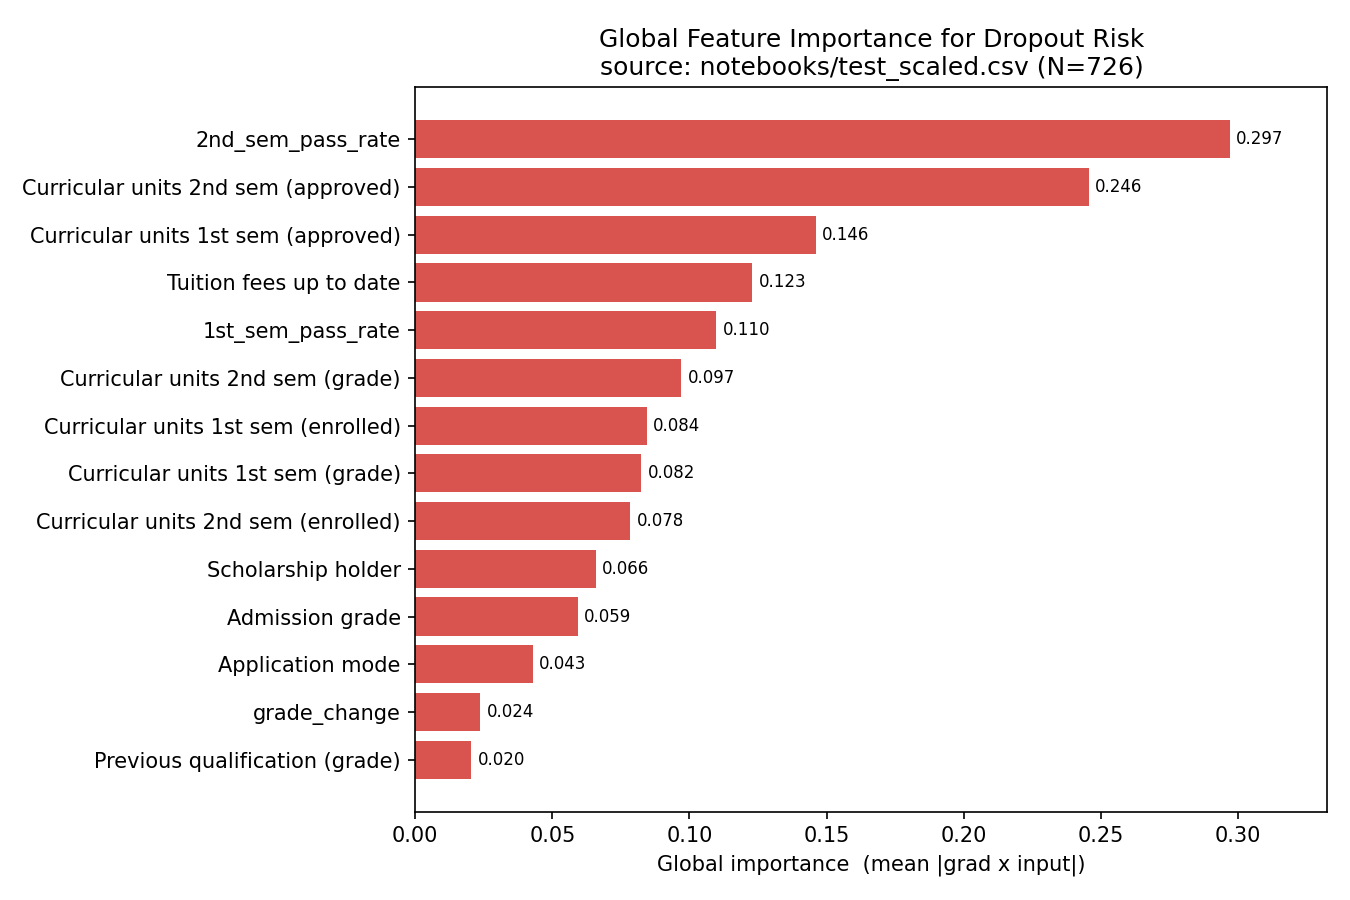
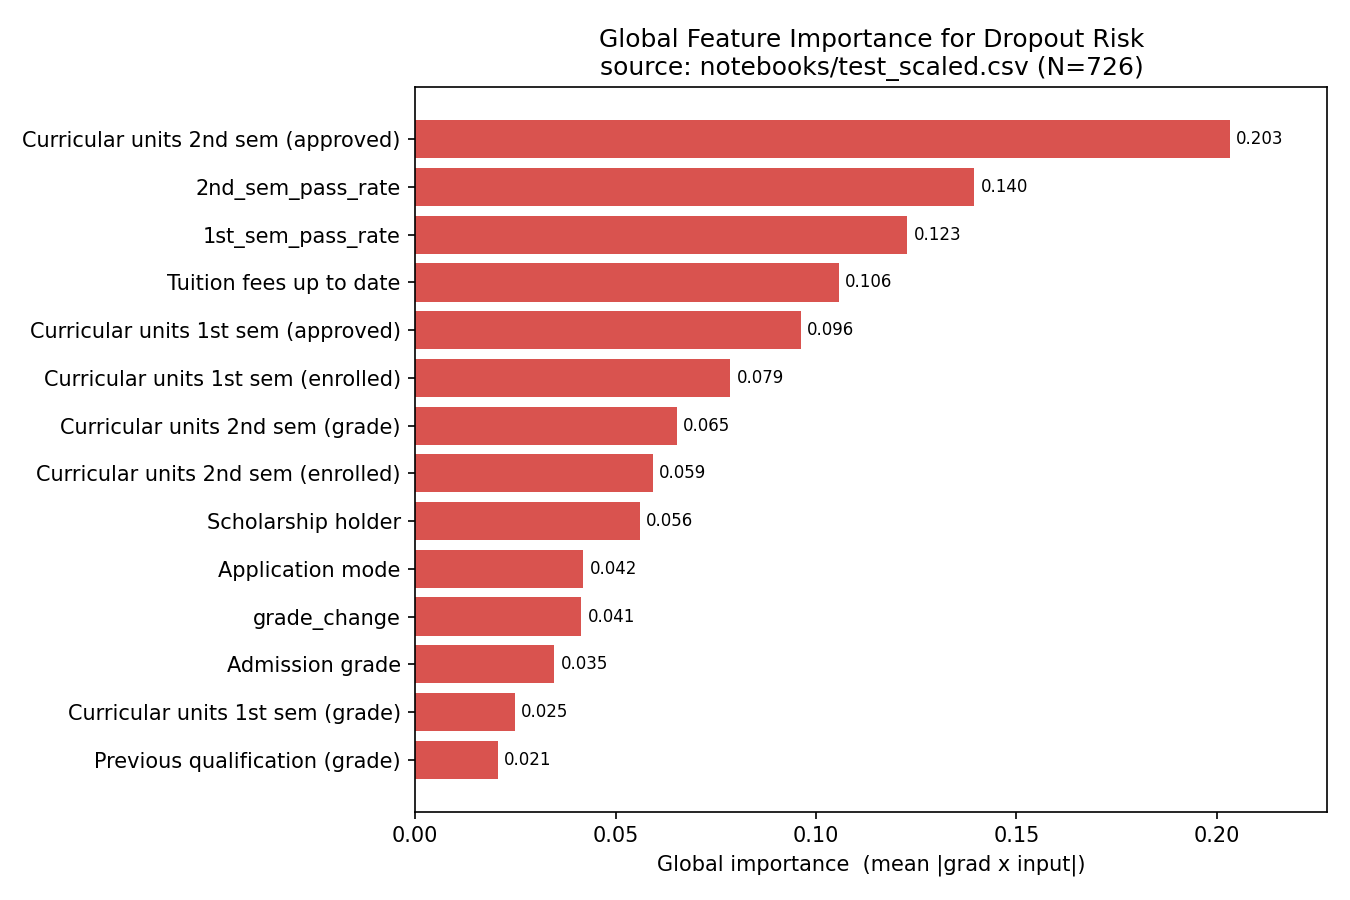
docs: update bilingual README docs and regenerate importance plot

diff --git a/README_en.md b/README_en.md
@@ -1,0 +1,328 @@
+# Student Dropout and Academic Success Prediction System
+
+[👉 中文版 Readme.md](./README.md)
+
+**A Secure Deep Learning System for Predicting Students' Dropout and Academic Success**
+
+This project predicts students' academic outcomes using enrollment, academic, and background data.  
+The modeling stage focuses on the most critical **binary classification task (Dropout vs Graduate, with Enrolled samples removed)**, and also covers explainability, security, fairness, and an actionable inference interface.
+
+> **Live Demo**: <https://huggingface.co/spaces/hsuifang/student-dropout-prediction>
+>
+> Dataset: [UCI – Predict students' dropout and academic success](https://archive.ics.uci.edu/dataset/697/predict+students+dropout+and+academic+success)
+
+---
+
+## 📋 Data Card (Completed by Member A, 113AB8049)
+
+### Data Card
+
+* **Dataset name**:
+  Predict Students' Dropout and Academic Success
+
+* **Dataset source**:
+  UCI Machine Learning Repository (Dataset ID 697)
+
+* **Original dataset size**:
+  * **Instances**: 4,424 students
+  * **Features**: 36 raw input variables
+  * **Target classes**: 3 classes (Dropout, Enrolled, Graduate)
+
+* **Processed dataset size**:
+  * **Features**: 14 final model features (11 selected original features and 3 engineered features)
+  * **Target classes**: 2 classes (binary classification: Dropout / Graduate)
+  * *Note: For detailed implementation of data cleaning, feature selection, and feature engineering, see [01_data_preprocessing.md](./reports/01_data_preprocessing.md).*
+
+---
+
+* **Feature domains**:
+  The original 36 features (reduced to 14 after optimization) mainly cover:
+  * Student demographics (e.g., gender, age at enrollment, nationality)
+  * Academic background (e.g., admission grade, previous qualification grade)
+  * Family and socioeconomic background
+  * Academic performance (first- and second-semester course information)
+  * Macroeconomic indicators (GDP, inflation rate, unemployment rate)
+
+* **Target label mapping**:
+  * **Original labels (3-class)**: `Dropout`, `Enrolled`, `Graduate`
+  * **Processed labels (binary)**: `1` represents Dropout, `0` represents Graduate (`Enrolled` samples removed)
+
+---
+
+### Data Preprocessing & Feature Engineering Overview
+
+To improve model accuracy while considering fairness for sensitive attributes, we applied the following optimizations to the raw data **(full technical details and code are provided in 01_data_preprocessing.md)**:
+
+* **Data filtering**:
+  Removed `Enrolled` samples, which are not directly aligned with the main prediction goal, and focused on confirmed Graduation and Dropout outcomes.
+* **Target encoding**:
+  Converted the original text-based `Target` column from a 3-class label into a binary label (`Dropout` mapped to `1`, `Graduate` mapped to `0`).
+* **Feature engineering**:
+  Based on domain knowledge and correlation screening, we selected 11 key features from the original 36 and engineered 3 high-impact derived features that capture students' learning dynamics (*first-semester pass rate*, *second-semester pass rate*, and *grade change across semesters*), resulting in 14 core model features.
+* **Feature scaling**:
+  Applied mean-variance normalization (Z-score standardization) to numerical features to help neural networks and linear models converge. We also **strictly separated training and test statistics to prevent data leakage**.
+* **Validation setup**:
+  Used a strict 80% training / 20% independent test split, and adopted **5-fold stratified cross-validation** during training to preserve the real-world dropout ratio (39.15%) while ensuring generalization.
+
+---
+
+* **Sensitive attributes**:
+  * `Tuition fees up to date`
+
+* **Privacy risks**:
+  `Tuition fees up to date` reflects a student's financial condition and is sensitive personal information. Although the dataset is de-identified (no names or student IDs), combining this variable with other demographic or academic data may still increase the risk of inferring an individual's economic status. Appropriate access control and protection measures should therefore be applied during data use and sharing.
+
+* **Bias & fairness risks**:
+  `Tuition fees up to date` may indirectly reflect socioeconomic status. If the model relies too heavily on this feature, economically disadvantaged students may be systematically predicted as having a higher dropout risk. To mitigate this issue, we introduced a **fairness repair algorithm** in this project. The model's predictions should be used only as a reference for providing additional support and interventions, not as a tool to limit educational opportunities.
+
+* **Intended use**:
+  To identify students at risk of dropping out as early as possible, so schools can provide academic guidance, financial aid, and other targeted support.
+
+* **Prohibited use**:
+  This model must not be used as the sole basis for:
+  * Student dismissal or expulsion decisions
+  * Admission decisions
+  * Scholarship allocation or disciplinary action
+  * Any automated decision affecting student rights without human review
+
+* **Dataset limitations**:
+  1. The data comes from a single higher education institution, so the results may not generalize to other schools or countries.
+  2. The data reflects a specific educational system and socioeconomic environment, and may not represent other student populations.
+  3. Important latent factors affecting dropout, such as mental health, learning motivation, and family support, are not included in the dataset.
+  4. The macroeconomic variables are broad indicators and cannot precisely reflect each student's personal financial status.
+  5. The inclusion of second-semester academic performance features may reduce the model's timeliness in a truly early-warning setting.
+
+---
+
+## 📋 Model Card (Completed by Member B, 113AB8046)
+
+- **Model name**: Fair-Predict Student Retention Model
+- **Model version**: `1.0.0` *(synchronized with `MODEL_VERSION` in `src/schema.py`)*
+- **Model architecture**: Deep feedforward neural network (Multi-Layer Perceptron, MLP)
+  * **Layer Stack**: `Input (14 features) → Dense(64) + BatchNorm + ReLU + Dropout(0.4) → Dense(32) + BatchNorm + ReLU + Dropout(0.3) → Dense(16) + ReLU → Linear(1)`
+  * **Loss Function**: `Focal Loss` (for label imbalance) + `MMD MinDiff Loss` (fairness constraint)
+  * **Optimization**: Automated Bayesian hyperparameter tuning with `Optuna` + `5-Fold` cross-validation
+- **Training data**:
+  Uses de-identified student academic and socioeconomic feature data (`train_scaled.csv`). It contains **14 core features**: 11 original features selected through SHAP analysis, plus 3 manually engineered features from our team (first-semester pass rate, second-semester pass rate, and grade change rate). No SMOTE oversampling was applied to avoid distorting the data distribution.
+
+- **Evaluation results**:
+  All models in this project were trained under a strict **5-fold cross-validation** setup, and final predictions on the independent gold test set were integrated via soft voting. The final quantitative results are shown below:
+
+| Model Stage | Accuracy | Macro F1 | Dropout Recall | ROC-AUC (Integrated Test Set) |
+| :--- | :---: | :---: | :---: | :---: |
+| **Baseline** (5-Fold Logistic Regression) | 0.94 | 0.93 | 0.90 | 0.9685 |
+| **MLP** (5-Fold) | 0.94 | 0.92 | 0.90 | **0.9730** |
+| **MLP + MinDiff** (Optuna-tuned) | 0.92 | 0.91 | 0.90 | 0.9485 |
+
+> 💡 **5-Fold internal validation stability**
+> * **MLP + MinDiff mean validation AUC**: $0.9268 \pm 0.0146$
+> * **MLP + MinDiff mean validation Gap**: $22.67\% \pm 18.32\%$
+
+- **Fairness results**:
+  This project uses `Tuition fees up to date` as the **protected sensitive attribute** to assess whether the model introduces serious systematic discrimination against economically disadvantaged students.
+
+  * **Baseline (FPR Gap)**: **62.54%** 🚨 *(Sensitive group FPR: 66.67% / Reference group FPR: 4.13%)*
+  * **Pure MLP (FPR Gap)**: **78.52%** 🚨 *(Sensitive group FPR: 83.33% / Reference group FPR: 4.82%)*
+  * **MLP + MinDiff (FPR Gap)**: 👑 **8.18%** ✨ *(Sensitive group FPR: 16.67% / Reference group FPR: 8.49%)*
+
+  **Bias mitigation insight:**  
+  By maximizing the custom composite metric $\text{Score} = \text{Mean AUC} - \text{Mean FPR Gap}$ with Optuna, the final model successfully **eliminated 86.7% of the historical financial-status bias**, while sacrificing only a very small amount (2.39%) of peak predictive AUC.
+
+- **Intended use**:
+  Designed for automated academic review at the end of the first year in colleges and universities. It aims to identify students with high dropout risk so that academic offices, counseling centers, and advisors can use it as an early intervention signal for **care interviews, psychological counseling, and campus resource allocation**.
+
+- **Out-of-scope use**:
+  * ❌ The model's predicted labels or probabilities must **never** be used directly for scholarship evaluation, financial aid allocation, or penalties in outstanding student selection.
+  * ❌ No campus administrative unit may use this automated model to directly trigger forced withdrawal, grade retention, or punitive administrative action without human review.
+
+- **Model limitations**:
+  * **Time lag**: Core features rely heavily on end-of-semester grades and credits, so the model may react too late for sudden dropout events caused by financial emergencies or loss of interest mid-semester.
+  * **Binary simplification bias**: The tuition payment status is currently simplified into a binary representation (below median vs above median), which cannot precisely capture dynamic and continuous changes in family finances.
+
+- **Ethical risks**:
+  If a model without MinDiff correction (such as the pure MLP) were deployed directly, it would create severe **financial shortcut learning** bias. The system could rely solely on whether a student comes from a financially disadvantaged background or has overdue tuition, which is unrelated to academic ability, and blindly misclassify the student as certain to drop out with a probability as high as 66.67%. This would create structural discrimination in the allocation of campus administrative resources and inflict secondary stigmatizing harm on specific socioeconomic groups.
+
+- **Security risks**: See the Security section below.
+- **Human oversight**:
+  **Responsible AI core principle (Human-in-the-loop):** The model's predictions and risk probabilities should be treated only as supporting signals for frontline academic counselors. Final intervention decisions, practical response measures, and administrative judgments must remain fully subject to human review and professional advisor assessment.
+
+- **Deployment status**:
+  * 🟢 **Status**: `Deployed`
+  * **Online demo**: Hugging Face Spaces — <https://huggingface.co/spaces/hsuifang/student-dropout-prediction>
+  * The production **5-fold MinDiff ensemble** (`model.pt` + `preprocessor.joblib`) is included in the repo and deployed via Docker (CPU torch, ~1.76GB); no changes are required in the UI or inference layer.
+  * 5-fold cross-validation and debiasing evaluation passed (integrated FPR Gap < 10%).
+
+---
+
+## 🔒 Security (Member C, 113AB8050)
+
+Key controls: **Input Validation**, sensitive attribute **de-identification**, shared **preprocessor** across training and inference (to prevent training-serving skew), **Human Review** warning, and de-identified **inference logs**.
+
+> Full risk register (8 risks × description × control × implementation × status) and TODOs are available in [`reports/05_security.md`](reports/05_security.md).
+
+### System Warning (Shown in the UI)
+
+```text
+This prediction is intended for early intervention support only.
+It must not be used as the sole basis for academic,
+disciplinary, or enrollment decisions.
+```
+
+## Quick Start · How to Use
+
+### Step 1 — Setup
+```bash
+python3 -m venv .venv && source .venv/bin/activate   # Virtual environment recommended
+pip install -r requirements.txt
+```
+
+### Step 2 — Prepare a Model — **Choose One**
+Both options produce `models/model.pt` and `models/preprocessor.joblib`, both follow the inference contract, and both can be loaded directly by `load_checkpoint` with **no UI changes required**.
+
+```bash
+# A) Placeholder model: no real data needed, fastest way to bring up the UI / demo flow
+python -m scripts.train_placeholder
+
+# B) Production model: requires the real data.csv (with Target column; not included in the repo)
+python -m scripts.export_model --data notebooks/data.csv
+```
+
+| | A. `train_placeholder` | B. `export_model` |
+| --- | --- | --- |
+| Data | Synthetic / UCI (no `data.csv` required) | Real `data.csv` |
+| Model | Placeholder "fake model", predictions are not meaningful | Production model |
+| Method | Standard BCE | Focal + MinDiff, **5-fold soft-voting ensemble** (= the one reported in the project report, consistent with Member B's notebook) |
+| Use case | Run the UI without data | Formal demo / deployment |
+
+> 💡 The `export_model` pipeline combines the 5 member models through soft voting and serializes them into a single `models/model.pt`;  
+> the inference layer (`src/inference`) uses `EnsembleMLP` to average probabilities automatically, so neither the UI nor the inference code needs to change.
+
+### Step 3 — Run the App
+```bash
+streamlit run app/streamlit_app.py     # Opens http://localhost:8501
+```
+Operation flow: enter student information in the left panel → click **Run Assessment** → the right panel immediately shows  
+**risk level → suggested action → main risk factors → class probabilities**, along with usage limitations and a human-review reminder.
+
+<p align="center">
+  <img src="results/main.png" alt="Dropout Risk Prediction interface" width="527">
+</p>
+
+### Step 4 — Optional: Generate Global Explanation Plot
+```bash
+python -m scripts.plot_global_importance       # → results/global_importance.png
+```
+
+> ⚠️ The `models/model.pt` generated by option A is a **placeholder** and is only for UI integration and demo purposes.  
+> For real performance, use option B (or replace it with the trained weights from Member B). No changes are needed in the UI or inference layer.
+
+---
+
+## Docker Deployment
+
+Deploy the interface to a server using the **production model (not the placeholder)**:
+
+```bash
+# 1) Generate the production model on a machine that has the real data.csv
+python -m scripts.export_model --data notebooks/data.csv
+#    → models/model.pt (5-fold ensemble) + models/preprocessor.joblib
+
+# 2) Build the image
+#    If models/ does not contain a real model, the image build falls back to a placeholder automatically
+docker build -t dropout-app .
+
+# 3) Run / deploy to the server
+docker run -d -p 8501:8501 --name dropout dropout-app
+#    → http://<server-address>:8501
+```
+
+- The image does **not** include raw or processed student data (`data.csv`, `*_scaled.csv` are excluded by `.dockerignore`).
+  Only the trained `model.pt` and `preprocessor.joblib` are packaged, so runtime behavior is equivalent to running the real model locally.
+- To persist inference logs to the host machine, mount `-v $(pwd)/results:/app/results`.
+- If the model changes, rerun step 1 → `docker build` → `docker run`.
+
+---
+
+## Inference Flow
+
+The interface (`app/`) does not perform machine learning directly. It only collects inputs, orchestrates the flow, and displays outputs. Prediction and explanation are delegated to `src/`:
+
+```text
+Form input (11 fields) → ① validate_input → ② predict → ③ explain_record → interpret into plain language → display + log
+                         (security)         (inference)   (explain)
+```
+
+| Module | Responsibility |
+| --- | --- |
+| `inference.py` | **How high is the risk?** — preprocessing (11 → 14) + model (`DropoutMLP` / `EnsembleMLP`) → probability / risk level |
+| `explain.py` | **Why?** — contribution of each feature to increasing or decreasing dropout risk (SHAP / gradient fallback) |
+| `interpret.py` / `security.py` | Convert numerical outputs into human-readable explanations / input validation + de-identified logs |
+
+> 💡 The interface depends only on the two functions `predict()` and `explain_record()`. Even after replacing a single model with a **5-fold ensemble**, `inference / explain / app` required no code changes.
+
+---
+
+## Project Structure
+
+```text
+student-dropout-prediction/
+├── README.md                # Includes Data Card / Model Card / Security
+├── requirements.txt
+├── src/                     # Shared modules
+│   ├── schema.py            # Single source of truth: feature order, labels, sensitive attributes, version
+│   ├── model.py             # MLP definition + checkpoint I/O format
+│   ├── preprocessing.py     # Scaler build/load (prevents training-serving skew)
+│   ├── inference.py         # Load model + prediction + risk level
+│   ├── explain.py           # SHAP / gradient fallback (Explainability)
+│   ├── interpret.py         # Convert model output into teacher-readable risk factors / action suggestions
+│   └── security.py          # Input Validation / de-identification / Inference Log
+├── scripts/
+│   ├── train_placeholder.py # Placeholder model (synthetic data)
+│   ├── export_model.py      # Production model (real data, 5-fold MinDiff ensemble)
+│   └── plot_global_importance.py # Global explanation plot -> results/global_importance.png
+├── app/
+│   └── streamlit_app.py     # Inference interface (main deliverable by Member C)
+├── models/                  # model.pt / preprocessor.joblib (generated artifacts)
+├── results/                 # Inference records, evaluation results
+├── notebooks/               # Exploratory analysis
+├── reports/                 # Detailed reports for each stage (preprocessing / evaluation / fairness / explainability / security)
+└── docs/                    # Assignment requirements and reference documents
+```
+
+---
+
+## Model Contract (For Member B to Replace the Production Model)
+
+As long as the following two conditions are met, `models/model.pt` can be replaced directly without changing the frontend:
+
+1. **Feature order and labels** must come from `src/schema.py` (`FEATURE_ORDER`, `LABELS`).
+2. **Checkpoint format** must use the save functions in `src/model.py`, and the corresponding `models/preprocessor.joblib` must be exported together:
+   - Single model via `save_checkpoint(...)`:
+     `state_dict / input_dim / dropout_1 / dropout_2 / num_classes / model_version / label_names`
+   - 5-fold ensemble via `save_ensemble_checkpoint(...)`:
+     `ensemble (member state_dicts) / num_members / input_dim / dropout_1 / dropout_2 / num_classes / model_version / label_names`
+   - `load_checkpoint(...)` automatically detects both formats, so the frontend and inference layer require no changes.
+
+---
+
+## Team Responsibilities
+
+| Module | Owner |
+| --- | --- |
+| Data preprocessing, Data Card, fairness data | 113AB8049 |
+| Baseline, MLP, MinDiff, evaluation, Model Card | 113AB8046 |
+| Explainability, Security, Inference interface, Deployment | 113AB8050 |
+
+---
+
+## Detailed Reports
+
+Below is the summary of the key sections (Data Card / Model Card / Security). For full methods and results, see [`reports/`](reports/README.md):
+
+| Report | Content |
+| --- | --- |
+| [01 Preprocessing](reports/01_data_preprocessing.md) | Data analysis, encoding, splitting, Data Leakage |
+| [02 Model & Evaluation](reports/02_model_evaluation.md) | Baseline / MLP / MinDiff, metric comparison |
+| [03 Fairness](reports/03_fairness.md) | Group metrics, before/after MinDiff comparison |
+| [04 Explainability](reports/04_explainability.md) | SHAP global / local explanations |
+| [05 Security](reports/05_security.md) | Full risk register and control details |

diff --git a/README.md b/README.md
@@ -1,5 +1,7 @@
 # 學生退學與學業成果預測系統
 
+[👉 English Version Readme.md](./README_en.md)
+
 **A Secure Deep Learning System for Predicting Students' Dropout and Academic Success**
 
 使用學生的入學、課業與背景資料，預測學生的學業結果。建模階段聚焦於最關鍵的
@@ -266,7 +268,7 @@ docker run -d -p 8501:8501 --name dropout dropout-app
 student-dropout-prediction/
 ├── README.md                # 含 Data Card / Model Card / Security（見下方）
 ├── requirements.txt
-├── src/                     # 共用模組 (模型契約)
+├── src/                     # 共用模組
 │   ├── schema.py            # ★ 唯一真實來源：特徵順序、標籤、敏感屬性、版本
 │   ├── model.py             # MLP 定義 + checkpoint 存取格式
 │   ├── preprocessing.py     # scaler 建立/載入 (防 training-serving skew)
@@ -275,7 +277,7 @@ student-dropout-prediction/
 │   ├── interpret.py         # 把模型輸出翻成教師可讀的風險因子 / 建議行動
 │   └── security.py          # Input Validation / 去識別化 / Inference Log
 ├── scripts/
-│   ├── train_placeholder.py # 佔位模型 (合成資料, demo 用)
+│   ├── train_placeholder.py # 佔位模型 (合成資料)
 │   ├── export_model.py      # 正式模型 (真實資料, 5-fold MinDiff ensemble)
 │   └── plot_global_importance.py # 全域解釋圖 -> results/global_importance.png
 ├── app/